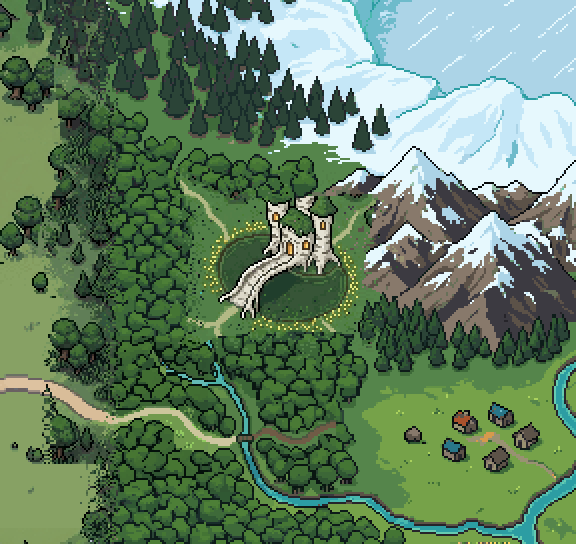
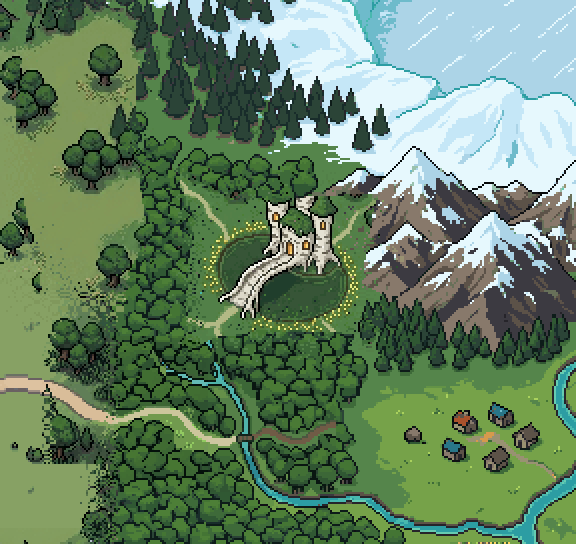
EPO03 landmarks: WEST's WA landed after L1 and the glade join reads as one hand — evidence refreshed, the report corrected

Changed region(s): [[0.0, 0.0, 0.25, 0.5938]]

diff --git a/MILESTONES/evidence/EPO03/wave2/LANDMARKS_report.md b/MILESTONES/evidence/EPO03/wave2/LANDMARKS_report.md
@@ -89,13 +89,14 @@ At 197×426 opening zoom (`E/review/atlas/L*_after_fov.png`,
    Until it lands, the sprites are packaged and unplaced, and
    `worldlife-composite.js` cannot show them — which is why the family's own
    `landmark-overlay-preview.js` renders the placement evidence instead.
-2. **L1 was painted before PROD-WORLD-WEST's core-face region (WA).** WEST
-   registered nothing all session (`manifest_west.json` is still `[]`; WA
-   176,260 160×280 is still `pending`), and DIR-03 sequences L1 after it. L1's
-   authored rect stops at x 296 and WA's stops there too, so no authored ground
-   is contested — but **WEST must cut WA's crop from the composite that now
-   contains L1 and freeze the ±40 px east margin.** That is the shared-edge
-   rule; it needs saying out loud because the order was inverted.
+2. **L1 was painted before PROD-WORLD-WEST's core-face region (WA)** — WEST
+   had registered nothing when L1's crop was cut, and DIR-03 sequences L1 after
+   it, so the order was inverted. **WA landed shortly after and the join was
+   re-inspected on the shipped composite** (`E/review/atlas/L1_after_x2.png`):
+   WA's new bays, copses and lone oaks meet the glade's ragged fringe as one
+   hand, no seam, no wall, no density step — L1's authored rect stops at x 296
+   and WA's stops there too, so no authored ground was ever contested. Closed,
+   but recorded: it was luck of sequencing that it read, not the rule.
 3. **SOUTH's S3 landed after L2** and brought the shoreline to within ~15 px of
    the storm house, so the gloom pocket's west side is smaller than DIR-03's
    "NE–SW darkness fading out at the edge". Measured on the shipped composite:
